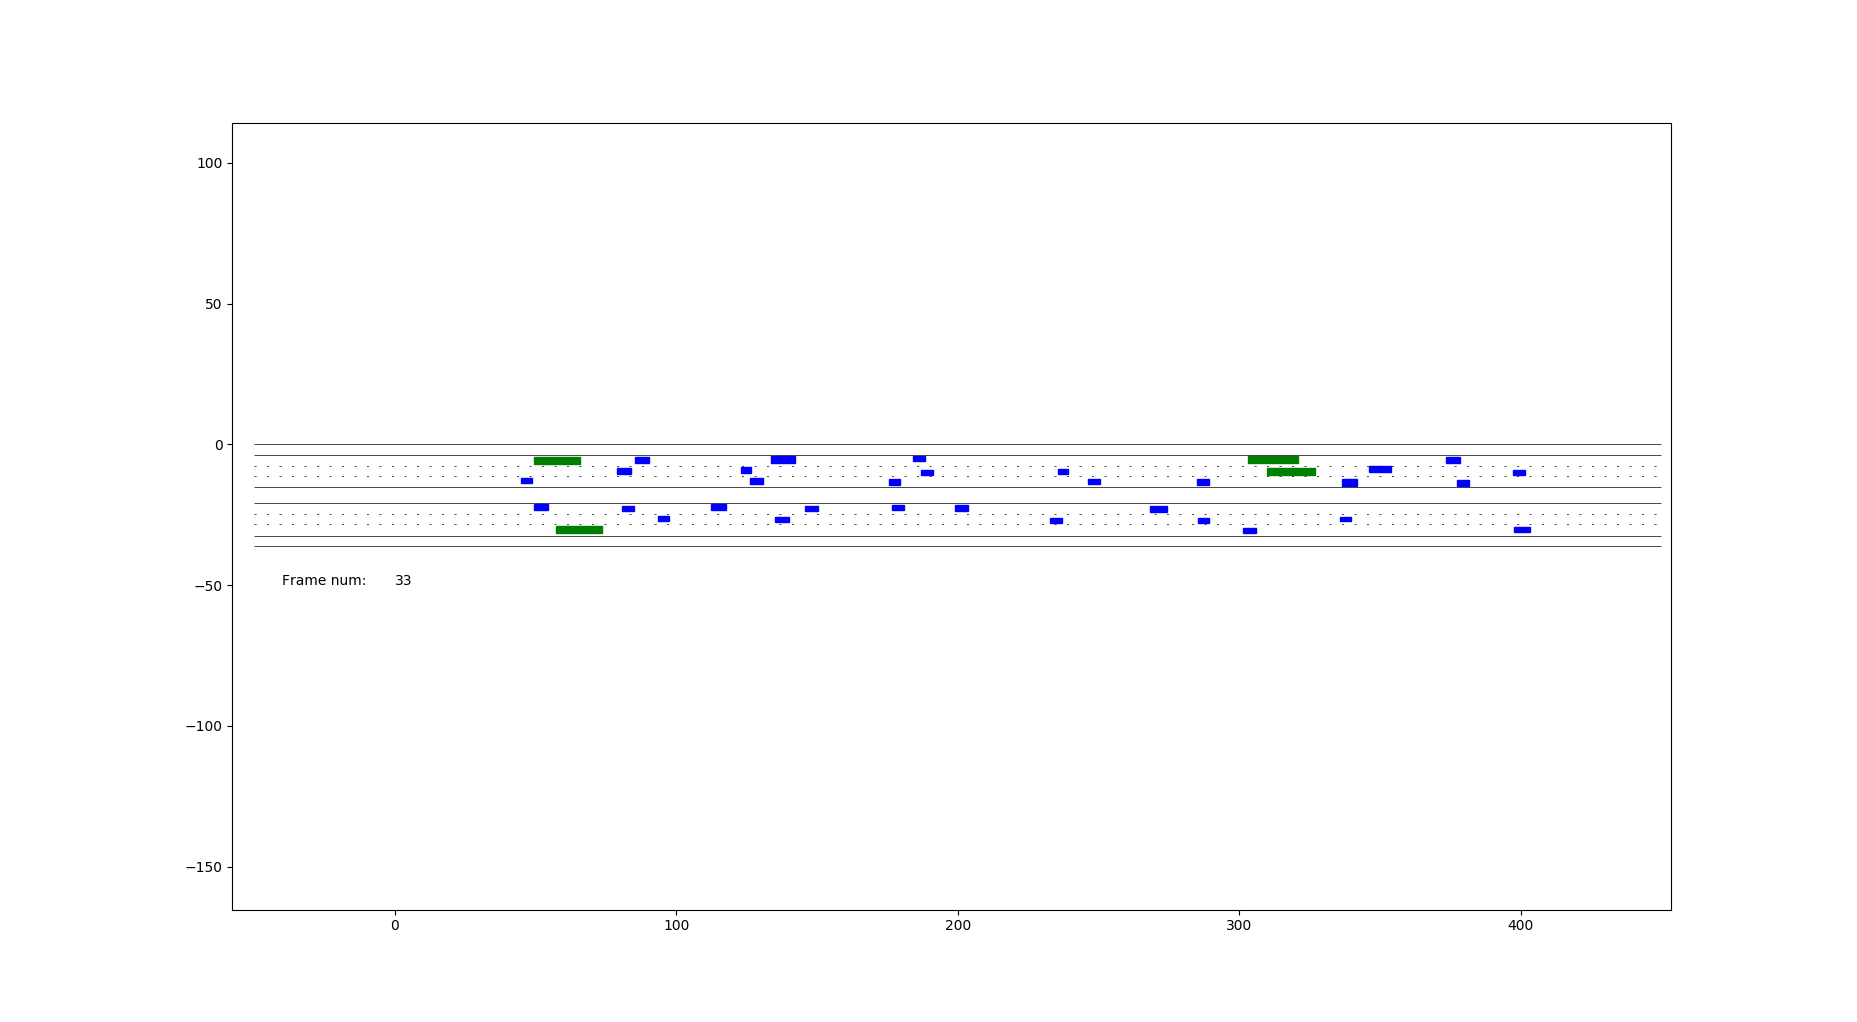
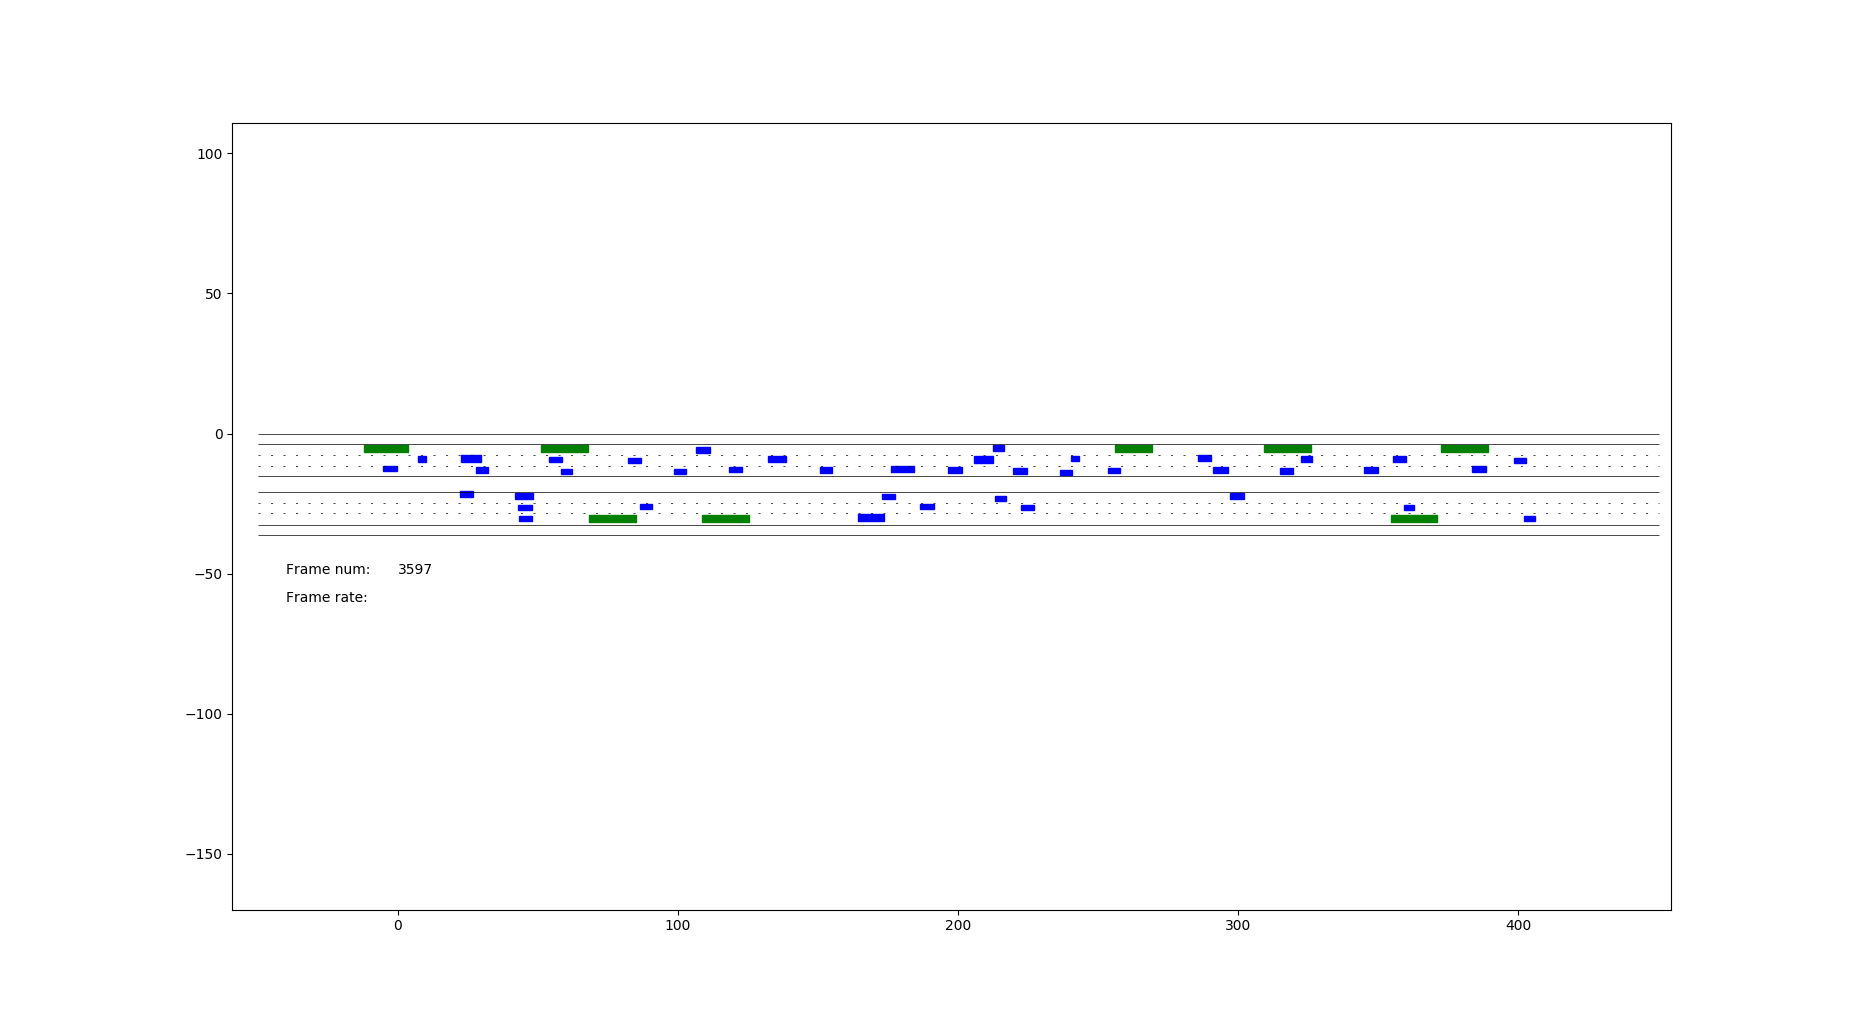
foo

diff --git a/foo.py b/foo.py
@@ -1,0 +1,53 @@
+import pandas as pd
+import matplotlib.pyplot as plt
+import matplotlib.patches as patches
+import numpy as np
+import time
+
+fig = plt.figure()
+ax = fig.add_subplot()
+
+
+plt.hlines([0, -3.65,-15.22,-20.88,-32.54, -32.54-3.65],-50,450,colors='k', linestyles='solid', linewidth=0.5)
+plt.hlines([-7.62,-11.42,-24.86,-28.48],-50,450,colors='k', linestyles=(0,(3,15)), linewidth=0.5)  
+plt.axis('equal')
+plt.text(-40, -50, "Frame num:")
+plt.text(-40, -60, "Frame rate:")
+
+
+df11_tracks = pd.read_csv('11_tracks.csv')
+df11_tm = pd.read_csv('11_tracksMeta.csv')
+df11_rm = pd.read_csv('11_recordingMeta.csv')
+
+track_meta = {}
+
+global_frame_num = df11_tm['finalFrame'].to_numpy()[-1]
+
+
+
+for frame in range(1, global_frame_num + 1):
+    track_meta[frame] = df11_tracks[df11_tracks['frame']==frame]
+
+for frame in range(1, global_frame_num + 1):
+    start_time = time.time()   
+    car_recs = []
+    for idx, row in track_meta[frame].iterrows():     
+        car_rec = []
+        col = 'b'
+        if row['width'] > 10: col = 'g'       
+        car_rec = patches.Rectangle((row['x'], -1*row['y']-row['height']), row['width'], row['height'], color=col)
+        ax.add_patch(car_rec)   
+        car_recs.append(car_rec)
+    txt = plt.text(0,-50, str(frame))
+    end_time = time.time()
+    duration = end_time - start_time
+    txt_d = plt.text(0,-60, str(int(duration)))  
+    plt.pause(1/25)   
+       
+    for car in car_recs: car.remove()
+    txt.remove()
+    txt_d.remove()
+
+    
+plt.show()
+

diff --git a/README.md b/README.md
@@ -1,6 +1,7 @@
 # highD_research
-very slow!
-
-![image](https://github.com/pprivulet/highD_research/blob/master/Figure_1.png)
 
 
+![image](Figure_1.png?raw=true)
+
+
+![image](11_highway.png?raw=true)
